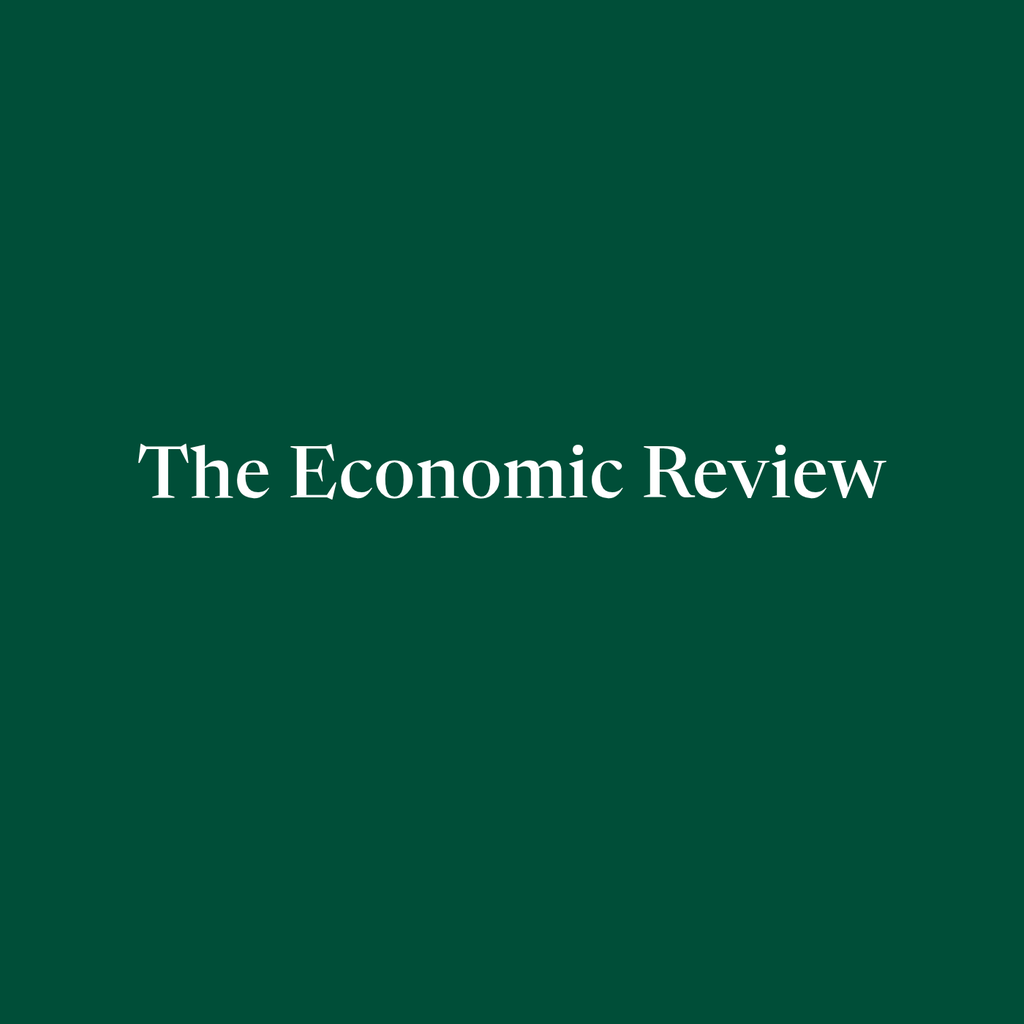
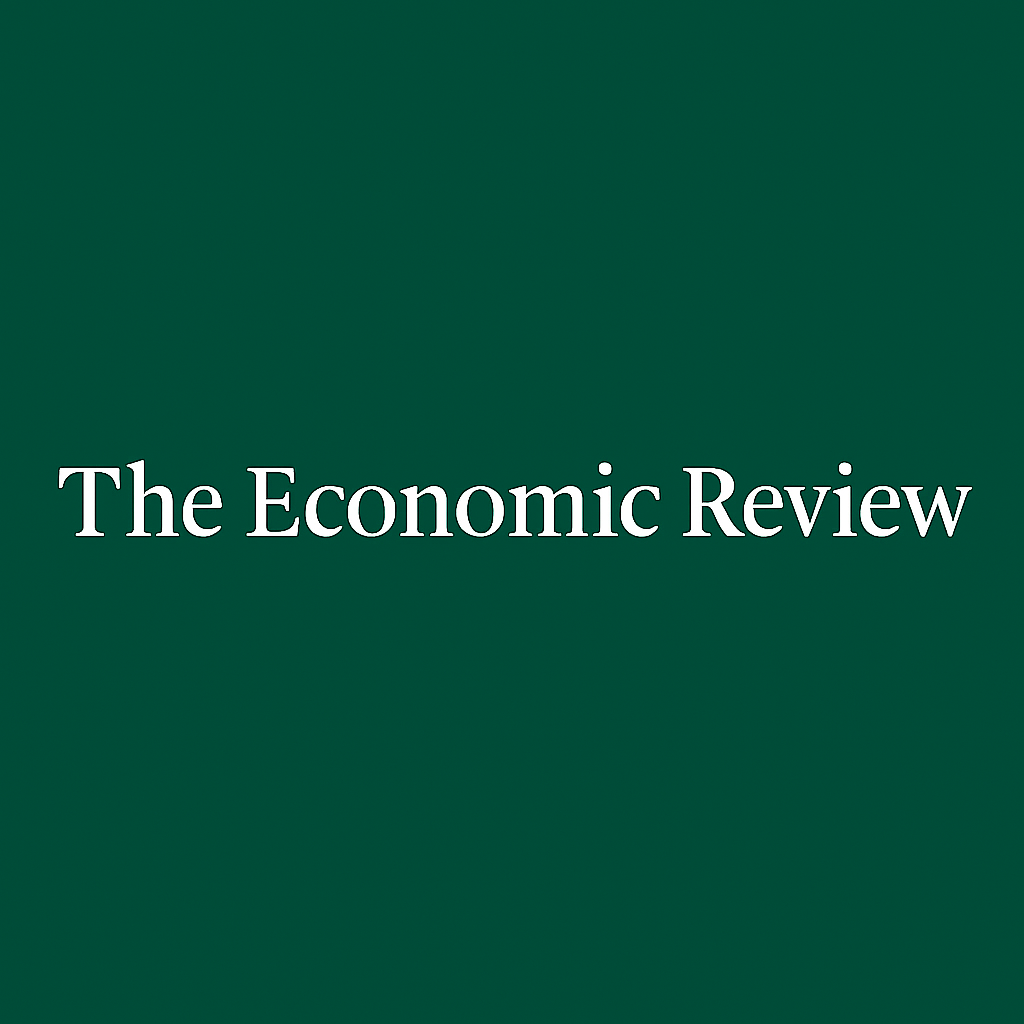
Use the uploaded brand artwork everywhere
The header, footer, favicons, apple-touch icon, and OG card now come from
the Editor-in-Chief's actual artwork (New_Final_1_WMER_Crest.PNG and the
wordmark banner) instead of the vector recreation, which is deleted.
crest.png is the original with the exterior made transparent and margins
trimmed; the OG card composites the real crest with the banner's text
strip on the banner's own green. CLAUDE.md now marks the uploaded files
as the source of truth, never to be redrawn.

Claude-Session: https://claude.ai/code/session_013RZAxasaMjo1EtaTm3VToH

Changed region(s): [[0.0625, 0.4375, 0.9688, 0.5312]]

diff --git a/_includes/head.html b/_includes/head.html
@@ -11,7 +11,6 @@
   <link rel="preload" href="{{ '/assets/fonts/inter-var.woff2' | relative_url }}" as="font" type="font/woff2" crossorigin>
   <link rel="stylesheet" href="{{ '/assets/css/main.css' | relative_url }}">
   <link rel="icon" href="{{ '/favicon.ico' | relative_url }}" sizes="32x32">
-  <link rel="icon" type="image/svg+xml" href="{{ '/assets/brand/crest.svg' | relative_url }}">
   <link rel="icon" type="image/png" sizes="192x192" href="{{ '/assets/brand/favicon-192.png' | relative_url }}">
   <link rel="apple-touch-icon" href="{{ '/assets/brand/apple-touch-icon.png' | relative_url }}">
   {%- comment -%} jekyll-feed's {% raw %}{% feed_meta %}{% endraw %} only advertises the

diff --git a/_includes/footer.html b/_includes/footer.html
@@ -2,7 +2,7 @@
   <div class="wrap">
     <div class="footer-cols">
       <div class="footer-id">
-        <img class="brand-crest" src="{{ '/assets/brand/crest.svg' | relative_url }}" alt="" width="30" height="37">
+        <img class="brand-crest" src="{{ '/assets/brand/crest.png' | relative_url }}" alt="" width="30" height="37">
         <p class="footer-name">{{ site.data.journal.name }}</p>
         <p class="footer-tag">The undergraduate economics journal of {{ site.data.journal.institution }}.</p>
       </div>

diff --git a/_includes/header.html b/_includes/header.html
@@ -9,7 +9,7 @@
 <header class="site-header">
   <div class="wrap">
     <a class="brand" href="{{ '/' | relative_url }}">
-      <img class="brand-crest" src="{{ '/assets/brand/crest.svg' | relative_url }}" alt="" width="34" height="42">
+      <img class="brand-crest" src="{{ '/assets/brand/crest.png' | relative_url }}" alt="" width="34" height="42">
       <span>
         <span class="brand-name">{{ site.data.journal.short_name }}</span>
         <span class="brand-inst">at {{ site.data.journal.institution }}</span>

diff --git a/CLAUDE.md b/CLAUDE.md
@@ -233,6 +233,24 @@ file containing just the bare domain, set the DNS (CNAME record →
 `economicreview.github.io`), update `url:` in `_config.yml`, and update
 the `Sitemap:` line in `robots.txt`. Until then, no CNAME file.
 
+## Brand artwork
+
+The **source of truth** for the Review's identity is the artwork the
+Editor-in-Chief uploaded to `assets/brand/`:
+`New_Final_1_WMER_Crest.PNG` (the crest, 1080×1350, white background) and
+`WMER Linkedin banner.png` (the green wordmark square). Never redraw,
+regenerate, or "clean up" this artwork — earlier sessions tried a vector
+recreation and it was rejected for looking AI-made.
+
+Derived files, all generated from those originals (with PIL: flood-fill
+the exterior white to transparent, trim, downscale):
+`crest.png` (trimmed + transparent, used in the header/footer),
+`favicon-*.png` + `favicon.ico` (also copied to the repo root),
+`apple-touch-icon.png`, `wordmark.png` (copy of the banner), and
+`assets/og/default.png` (composited from the real crest + the banner's
+text strip). If the originals ever change, regenerate the derived set the
+same way.
+
 ## OG images
 
 GitHub Pages cannot rasterize at deploy time, so 1200×630 OG PNGs are
